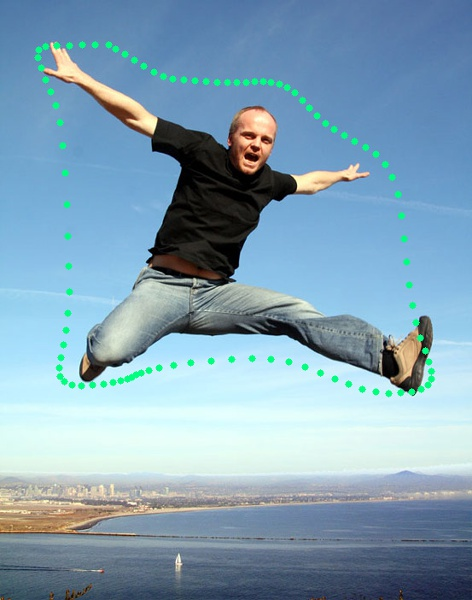
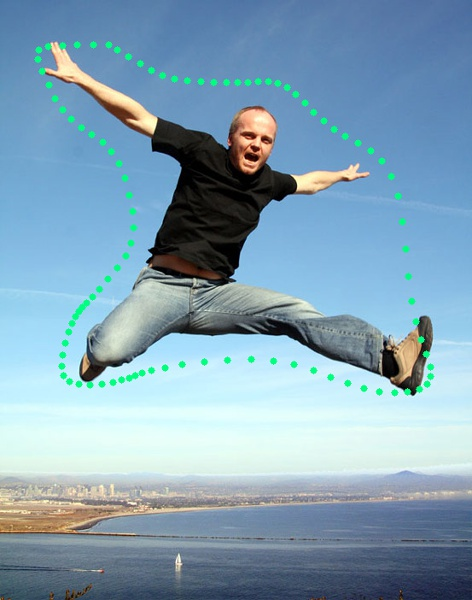
update the way to calculate alpha value

diff --git a/HPE_NatureCutout.py b/HPE_NatureCutout.py
@@ -164,7 +164,7 @@ for k, file_id in enumerate(file_id_list):
 	## Start Connecting These extend-pts (using Bezier Curve)
 	# use Alpha shape to remain those really important pts.
 	# [Note]: with larger alpha-value, we can find more fitting contour (but can't be too large(i.e. threshold would be too small, and so no more triangles could be added into the contour set, which will cause error.))
-	alpha = 3.5/max(maxDif_ydir,maxDif_xdir) # why 3.5? -> it's just exp. result. [eg. 1200 pt in 'maximum-y-diff', we will use 0.003 as alpha-value]
+	alpha = 4.7/max(maxDif_ydir,maxDif_xdir) # why 3.5? -> it's just exp. result. [eg. 1200 pt in 'maximum-y-diff', we will use 0.003 as alpha-value]
 	triangles, edge_points = alpha_shape(extendPt, alpha)
 
 	## shoaw result of Delauny-triangular
